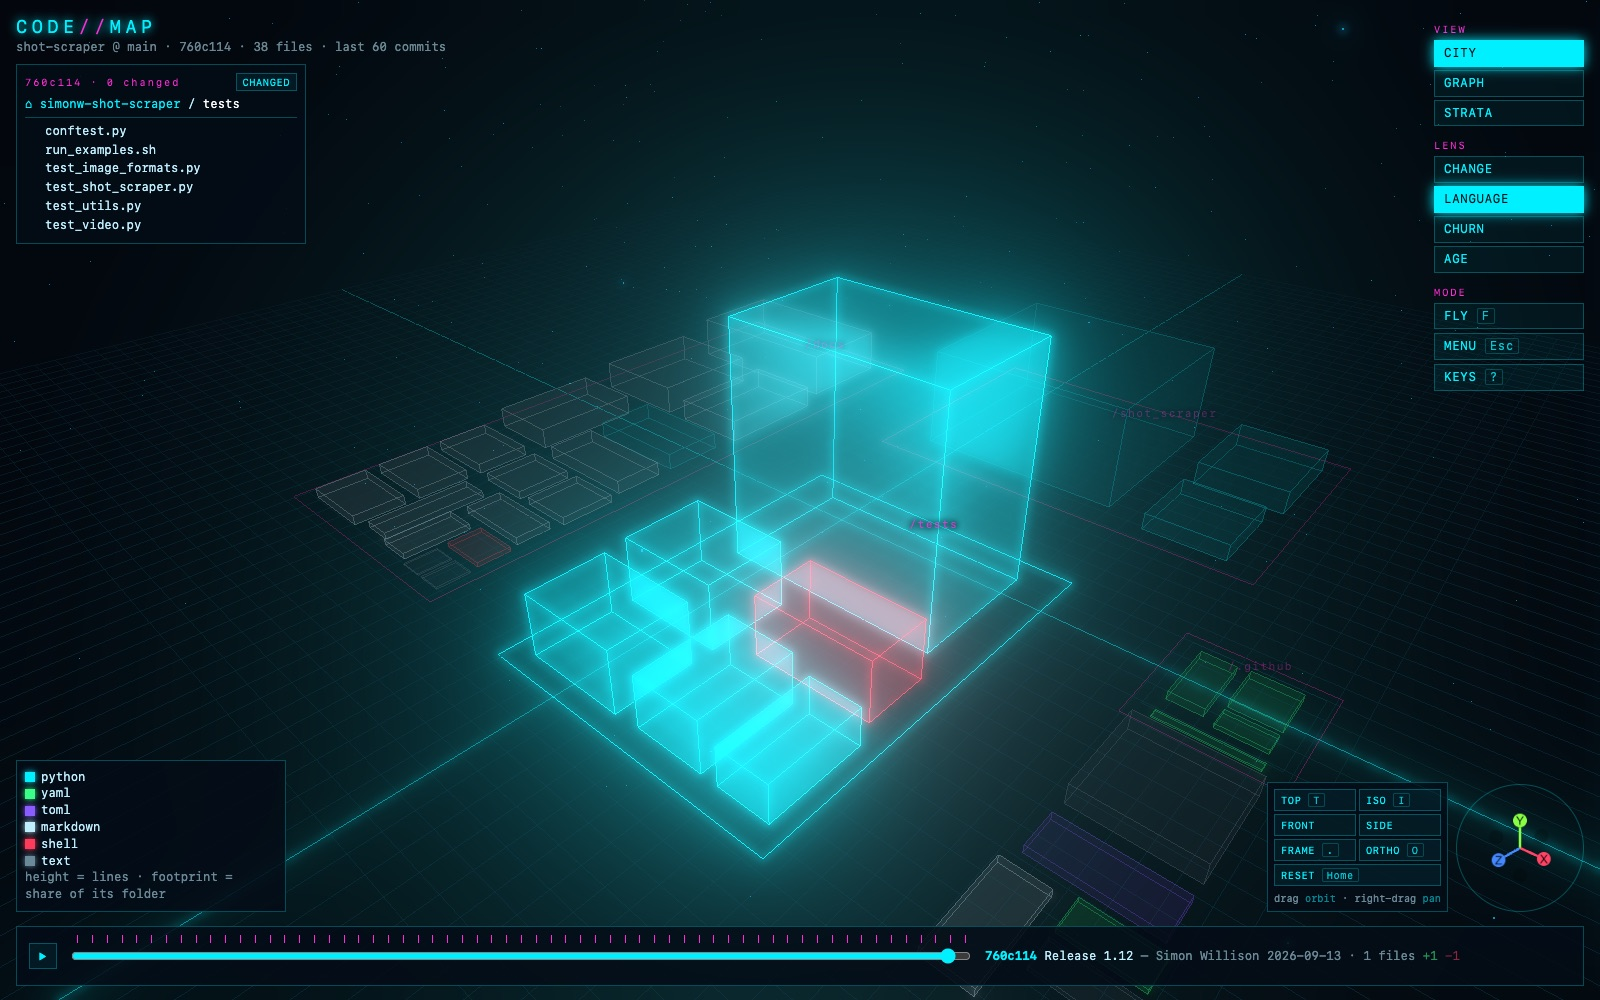
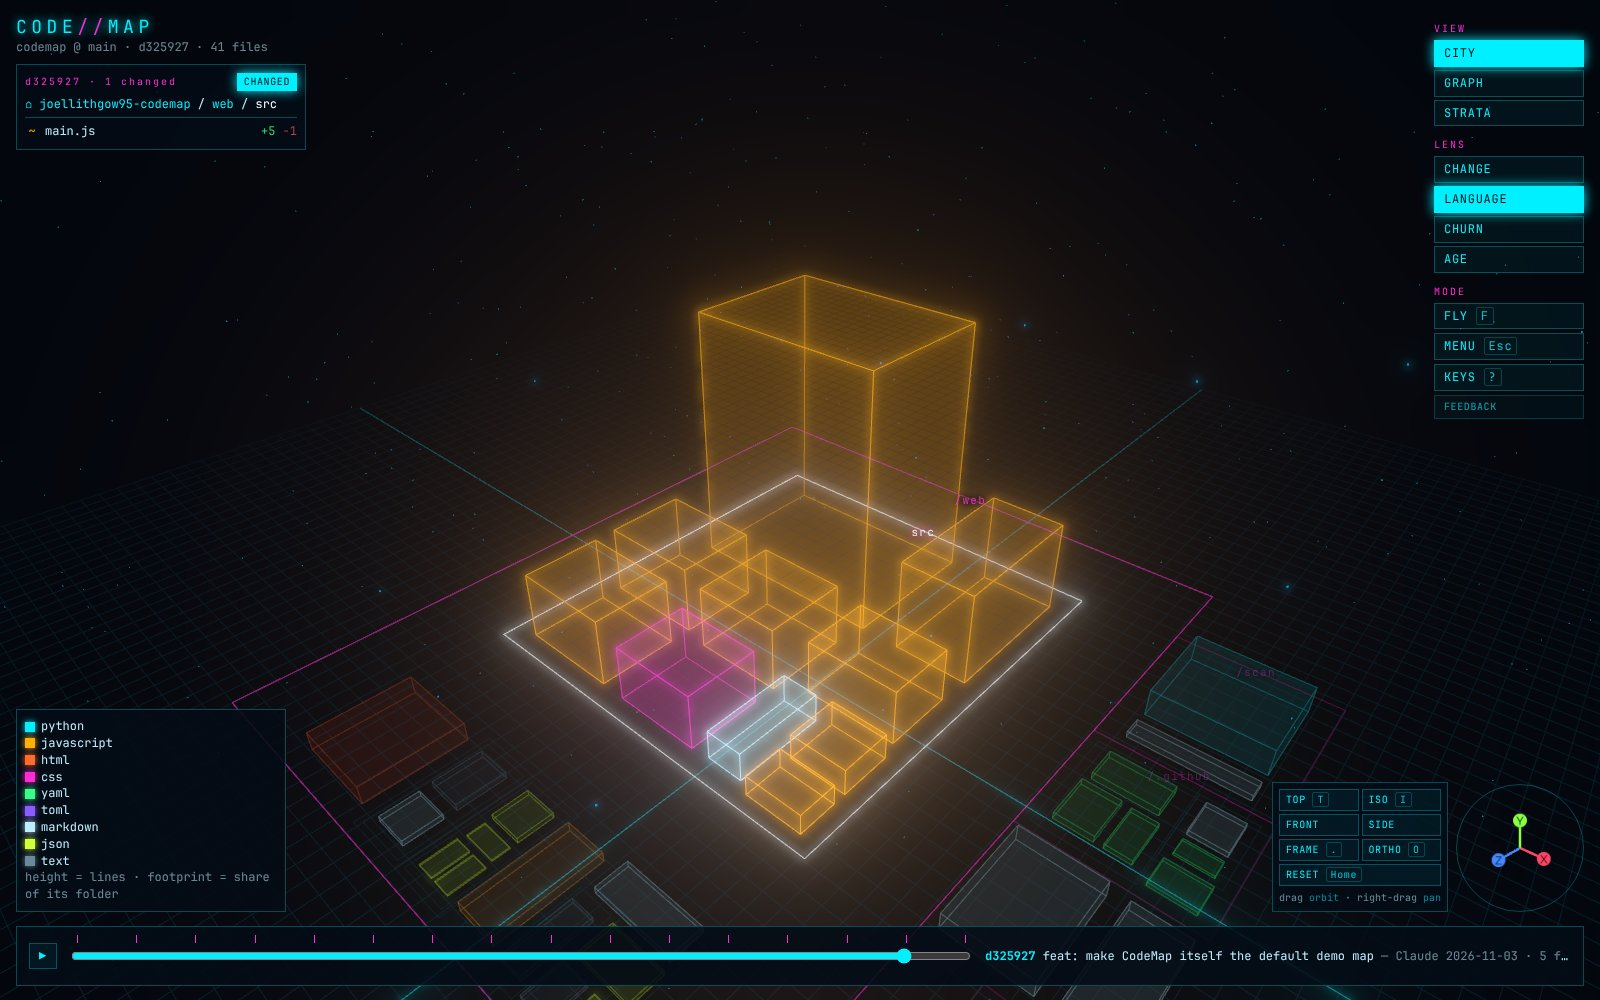
docs: replace the focus screenshot with one of the Codemap map (#15)
Claude-Session: https://claude.ai/code/session_01FxioBuxG73c5rWxNfgefoG

diff --git a/README.md b/README.md
@@ -22,7 +22,7 @@ stop is the working tree. Click a tower for the code panel: source with a blame 
 lines, per-commit diffs and symbols. A selected file draws arcs to what it imports and what imports
 it.
 
-![Focused on the tests folder: the rest of the city slides away and fades](docs/focus.jpg)
+![Focused on web/src: the rest of the city slides away and fades](docs/focus.jpg)
 
 ## Getting around
 
